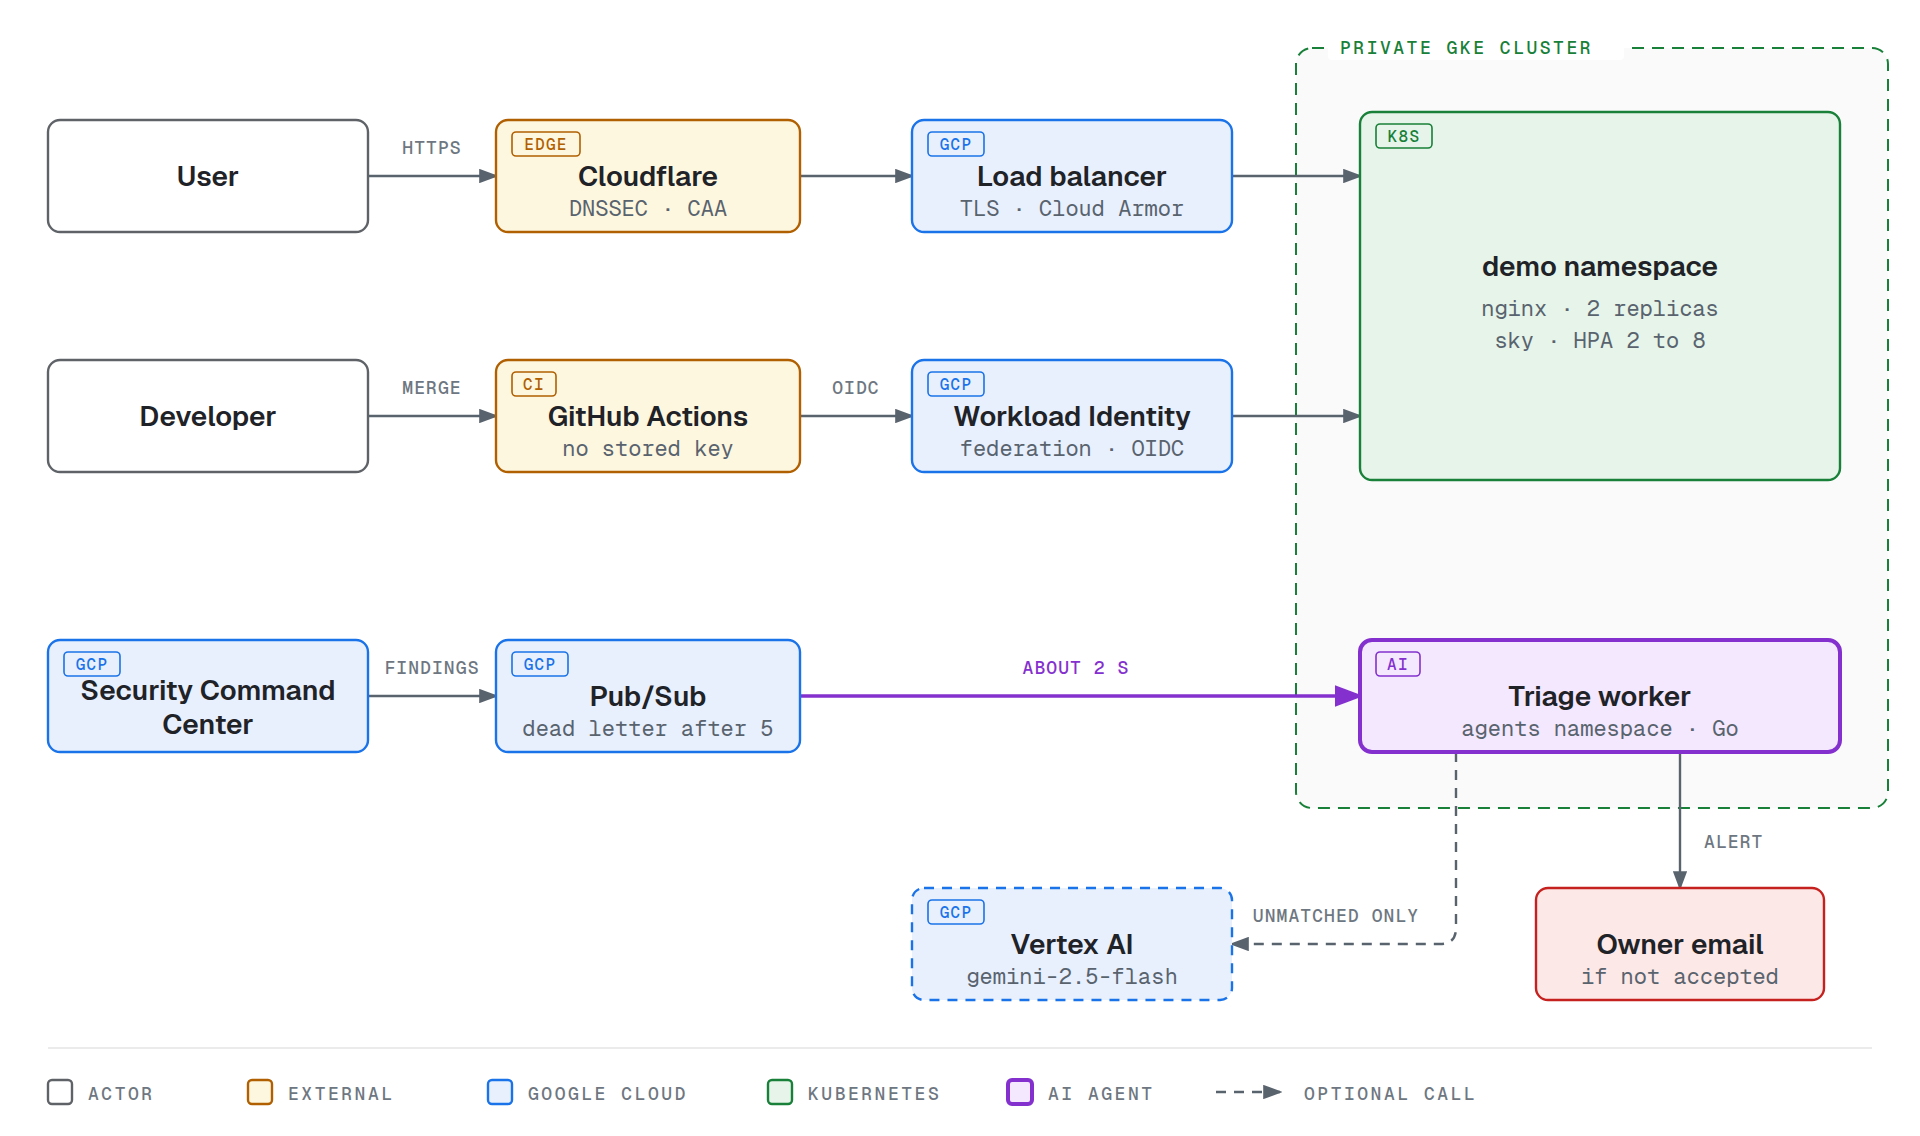
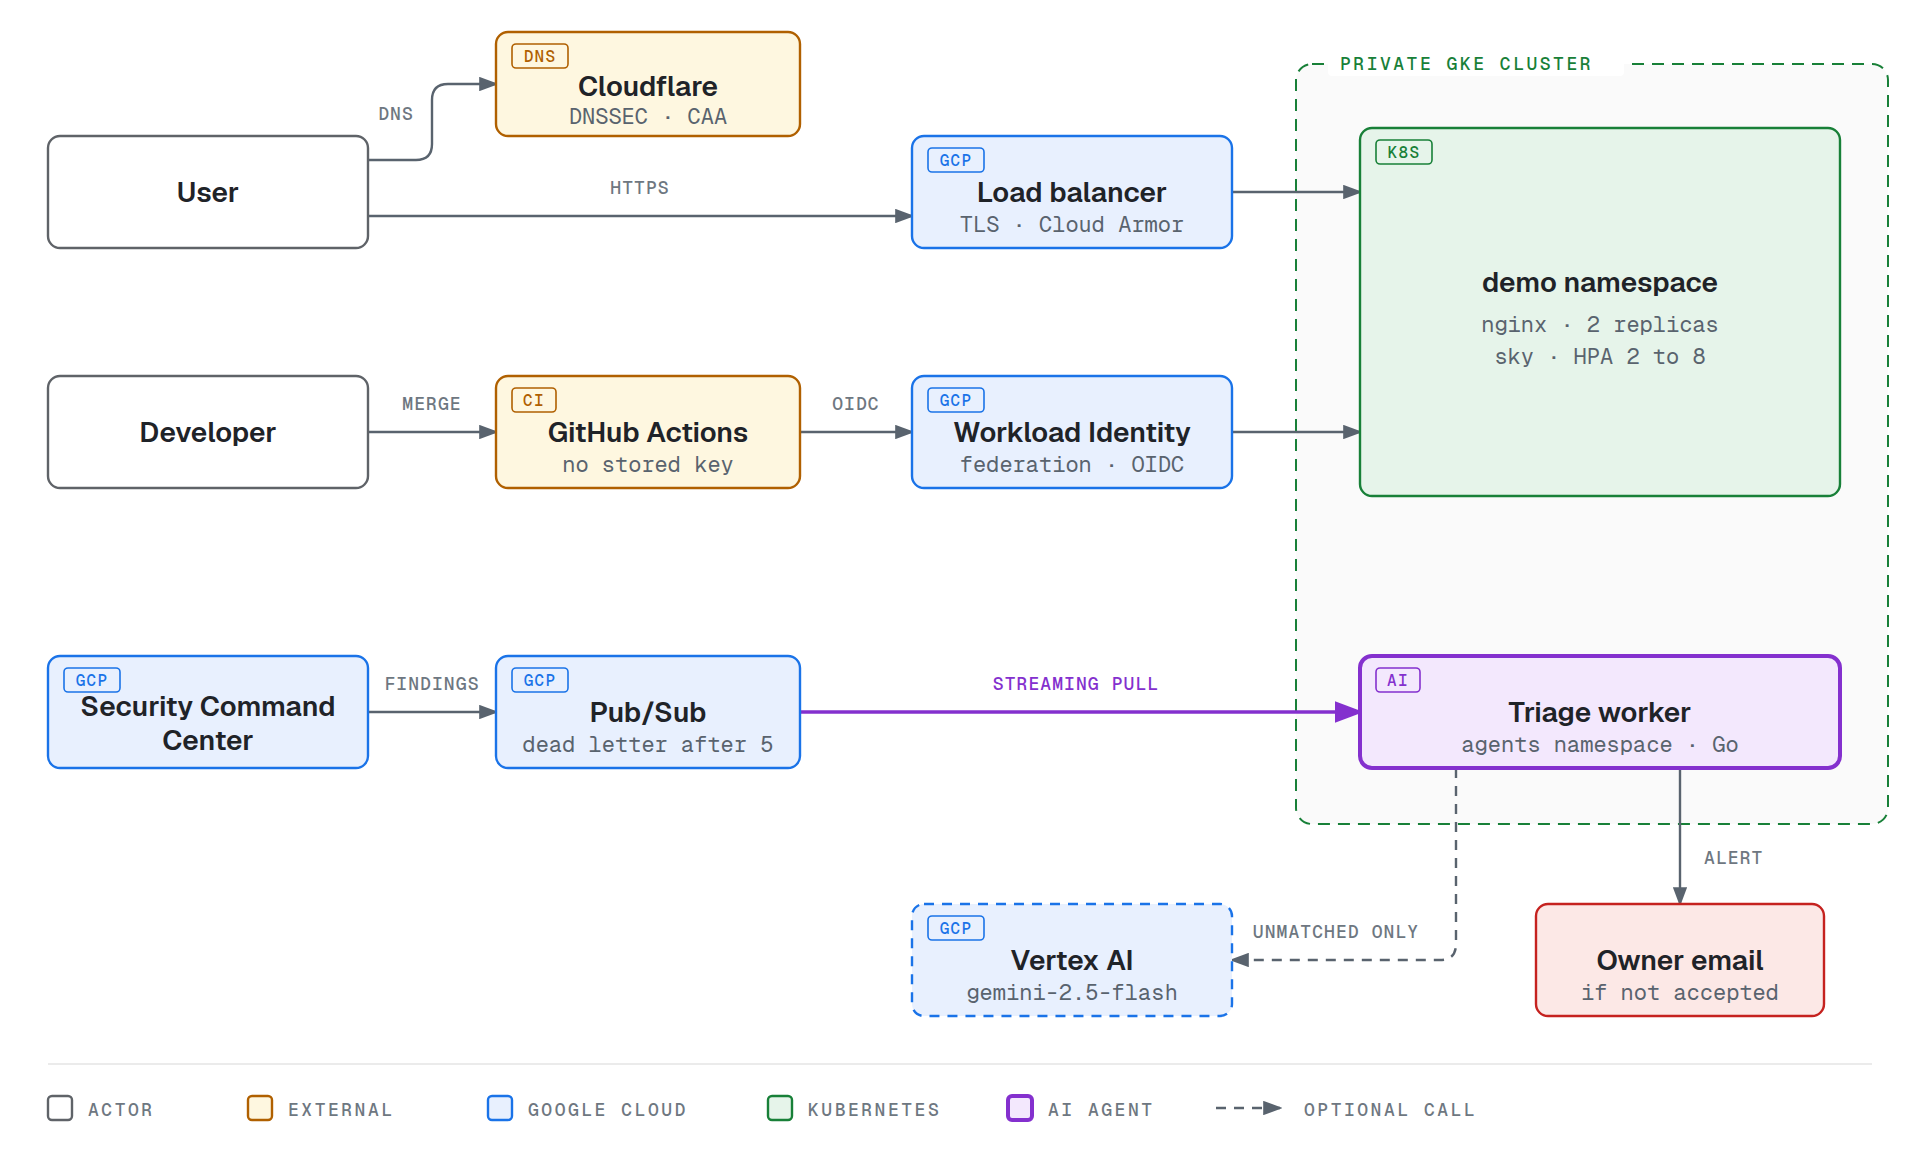
docs: correct the DNS path, the model path sum and the guardrail claims

diff --git a/scripts/diagrams/speed.html b/scripts/diagrams/speed.html
@@ -6,44 +6,46 @@
 <link rel="stylesheet" href="theme.css">
 </head>
 <body>
-<!-- Scale: x = 200 + seconds * 144. Sources are in worklog/phase-15-scc-triage.md, slices 4, 7, 8 and 14. -->
+<!-- Scale: x = 200 + seconds * 120. Sources are in worklog/phase-15-scc-triage.md, slices 7, 8 and 13. -->
 <svg viewBox="0 24 960 240" width="960" height="240" xmlns="http://www.w3.org/2000/svg" role="img" aria-labelledby="speed-title speed-desc">
   <title id="speed-title">Triage speed</title>
-  <desc id="speed-desc">The rules path took 2.9 seconds from finding change to recorded verdict, measured end to end; the model path adds a model call of 1.3 seconds at p50 and 1.9 seconds at p95, for about 3.6 seconds composed from measured parts.</desc>
+  <desc id="speed-desc">The rules path took 2.9 seconds from finding change to recorded verdict, measured end to end; adding the model call to the same measured parts gives about 4.4 seconds at p50 and 5.0 seconds at p95.</desc>
   <rect class="bg" y="24" width="960" height="240"/>
 
   <!-- Gridlines and axis -->
-  <line class="grid" x1="344" y1="40" x2="344" y2="156"/>
-  <line class="grid" x1="488" y1="40" x2="488" y2="156"/>
-  <line class="grid" x1="632" y1="40" x2="632" y2="156"/>
-  <line class="grid" x1="776" y1="40" x2="776" y2="156"/>
+  <line class="grid" x1="320" y1="40" x2="320" y2="156"/>
+  <line class="grid" x1="440" y1="40" x2="440" y2="156"/>
+  <line class="grid" x1="560" y1="40" x2="560" y2="156"/>
+  <line class="grid" x1="680" y1="40" x2="680" y2="156"/>
+  <line class="grid" x1="800" y1="40" x2="800" y2="156"/>
   <line class="grid" x1="920" y1="40" x2="920" y2="156"/>
   <line class="axis" x1="200" y1="40" x2="200" y2="156"/>
   <line class="axis" x1="200" y1="156" x2="920" y2="156"/>
   <text class="tick" x="200" y="172" text-anchor="middle">0 s</text>
-  <text class="tick" x="344" y="172" text-anchor="middle">1 s</text>
-  <text class="tick" x="488" y="172" text-anchor="middle">2 s</text>
-  <text class="tick" x="632" y="172" text-anchor="middle">3 s</text>
-  <text class="tick" x="776" y="172" text-anchor="middle">4 s</text>
-  <text class="tick" x="920" y="172" text-anchor="middle">5 s</text>
+  <text class="tick" x="320" y="172" text-anchor="middle">1 s</text>
+  <text class="tick" x="440" y="172" text-anchor="middle">2 s</text>
+  <text class="tick" x="560" y="172" text-anchor="middle">3 s</text>
+  <text class="tick" x="680" y="172" text-anchor="middle">4 s</text>
+  <text class="tick" x="800" y="172" text-anchor="middle">5 s</text>
+  <text class="tick" x="920" y="172" text-anchor="middle">6 s</text>
 
-  <!-- Rules path: delivery 2.80 s, three ledger states 0.13 s -->
+  <!-- Rules path, slice 8: finding change to received 2.80 s, three ledger states 0.13 s -->
   <text class="cat" x="188" y="70" text-anchor="end">Rules path</text>
   <text class="tick" x="188" y="85" text-anchor="end">measured end to end</text>
-  <rect class="bar gcp" x="200" y="56" width="403" height="28"/>
-  <rect class="bar k8s" x="603" y="56" width="19" height="28"/>
-  <text class="val ai start" x="634" y="75">2.9 s</text>
+  <rect class="bar gcp" x="200" y="56" width="336" height="28"/>
+  <rect class="bar k8s" x="536" y="56" width="15" height="28"/>
+  <text class="val ai start" x="564" y="75">2.9 s</text>
 
-  <!-- Model path: delivery about 2 s, model 1.3 s p50 (1.9 s p95), four ledger states 0.29 s -->
+  <!-- Model path: the same 2.80 s, model 1.3 s p50 and 1.9 s p95 (slice 13), four ledger states 0.285 s (slice 7) -->
   <text class="cat" x="188" y="126" text-anchor="end">Model path</text>
   <text class="tick" x="188" y="141" text-anchor="end">sum of measured parts</text>
-  <rect class="bar gcp" x="200" y="112" width="288" height="28"/>
-  <rect class="bar focal" x="488" y="112" width="187" height="28"/>
-  <rect class="bar k8s" x="675" y="112" width="41" height="28"/>
-  <line class="whisker" x1="716" y1="126" x2="803" y2="126"/>
-  <line class="whisker" x1="803" y1="118" x2="803" y2="134"/>
-  <text class="val ai start" x="815" y="123">3.6 s at p50</text>
-  <text class="val start" x="815" y="138">4.2 s at p95</text>
+  <rect class="bar gcp" x="200" y="112" width="336" height="28"/>
+  <rect class="bar focal" x="536" y="112" width="156" height="28"/>
+  <rect class="bar k8s" x="692" y="112" width="34" height="28"/>
+  <line class="whisker" x1="726" y1="126" x2="798" y2="126"/>
+  <line class="whisker" x1="798" y1="118" x2="798" y2="134"/>
+  <text class="val ai start" x="810" y="123">4.4 s at p50</text>
+  <text class="val start" x="810" y="138">5.0 s at p95</text>
 
   <!-- Note -->
   <text class="note" x="16" y="204">The owner email follows about 3 min later. That delay is the alert policy's detection floor, not the worker.</text>
@@ -51,14 +53,14 @@
   <!-- Legend -->
   <line class="rule" x1="16" y1="220" x2="944" y2="220"/>
   <rect class="bar gcp" x="16" y="234" width="12" height="12"/>
-  <text class="eyebrow" x="36" y="244">PUB/SUB DELIVERY</text>
-  <rect class="bar focal" x="196" y="234" width="12" height="12"/>
-  <text class="eyebrow" x="216" y="244">MODEL CALL</text>
-  <rect class="bar k8s" x="336" y="234" width="12" height="12"/>
-  <text class="eyebrow" x="356" y="244">SETTLE AND WRITE LEDGER</text>
-  <line class="whisker" x1="580" y1="240" x2="612" y2="240"/>
-  <line class="whisker" x1="612" y1="234" x2="612" y2="246"/>
-  <text class="eyebrow" x="624" y="244">MODEL P95</text>
+  <text class="eyebrow" x="36" y="244">FINDING CHANGE TO WORKER</text>
+  <rect class="bar focal" x="256" y="234" width="12" height="12"/>
+  <text class="eyebrow" x="276" y="244">MODEL CALL</text>
+  <rect class="bar k8s" x="396" y="234" width="12" height="12"/>
+  <text class="eyebrow" x="416" y="244">SETTLE AND WRITE LEDGER</text>
+  <line class="whisker" x1="640" y1="240" x2="672" y2="240"/>
+  <line class="whisker" x1="672" y1="234" x2="672" y2="246"/>
+  <text class="eyebrow" x="684" y="244">MODEL P95</text>
 </svg>
 </body>
 </html>

diff --git a/scripts/diagrams/overview.html b/scripts/diagrams/overview.html
@@ -6,14 +6,14 @@
 <link rel="stylesheet" href="theme.css">
 </head>
 <body>
-<svg viewBox="0 32 960 568" width="960" height="568" xmlns="http://www.w3.org/2000/svg" role="img" aria-labelledby="overview-title overview-desc">
+<svg viewBox="0 24 960 576" width="960" height="576" xmlns="http://www.w3.org/2000/svg" role="img" aria-labelledby="overview-title overview-desc">
   <title id="overview-title">Platform overview</title>
-  <desc id="overview-desc">Users reach the demo namespace through Cloudflare and a Google load balancer, a developer deploys to it through GitHub Actions and Workload Identity Federation, and Security Command Center findings reach the triage worker in the agents namespace, which calls Vertex AI for unmatched findings and alerts the owner.</desc>
+  <desc id="overview-desc">Users resolve the domain at Cloudflare and reach the demo namespace through a Google load balancer, a developer deploys to it through GitHub Actions and Workload Identity Federation, and Security Command Center findings reach the triage worker in the agents namespace, which calls Vertex AI for unmatched findings and alerts the owner.</desc>
   <defs>
     <marker id="arrow" markerWidth="8" markerHeight="6" refX="7" refY="3" orient="auto"><polygon class="mk" points="0 0, 8 3, 0 6"/></marker>
     <marker id="arrow-ai" markerWidth="8" markerHeight="6" refX="7" refY="3" orient="auto"><polygon class="mk ai" points="0 0, 8 3, 0 6"/></marker>
   </defs>
-  <rect class="bg" y="32" width="960" height="568"/>
+  <rect class="bg" y="24" width="960" height="576"/>
 
   <!-- Zone -->
   <rect class="zone" x="648" y="56" width="296" height="380" rx="8"/>
@@ -21,8 +21,8 @@
   <text class="zonet" x="670" y="59">PRIVATE GKE CLUSTER</text>
 
   <!-- Arrows: serving -->
-  <line class="a" x1="184" y1="120" x2="248" y2="120"/>
-  <line class="a" x1="400" y1="120" x2="456" y2="120"/>
+  <path class="a" d="M 184,104 H 208 Q 216,104 216,96 V 74 Q 216,66 224,66 H 248"/>
+  <line class="a" x1="184" y1="132" x2="456" y2="132"/>
   <line class="a" x1="616" y1="120" x2="680" y2="120"/>
   <!-- Arrows: delivery -->
   <line class="a" x1="184" y1="240" x2="248" y2="240"/>
@@ -35,16 +35,18 @@
   <line class="a" x1="840" y1="408" x2="840" y2="476"/>
 
   <!-- Arrow labels -->
-  <rect class="mask" x="197" y="99" width="38" height="13" rx="2"/>
-  <text class="lbl" x="216" y="109">HTTPS</text>
+  <rect class="mask" x="186" y="74" width="24" height="13" rx="2"/>
+  <text class="lbl" x="198" y="84">DNS</text>
+  <rect class="mask" x="301" y="111" width="38" height="13" rx="2"/>
+  <text class="lbl" x="320" y="121">HTTPS</text>
   <rect class="mask" x="197" y="219" width="38" height="13" rx="2"/>
   <text class="lbl" x="216" y="229">MERGE</text>
   <rect class="mask" x="412" y="219" width="32" height="13" rx="2"/>
   <text class="lbl" x="428" y="229">OIDC</text>
   <rect class="mask" x="190" y="359" width="52" height="13" rx="2"/>
   <text class="lbl" x="216" y="369">FINDINGS</text>
-  <rect class="mask" x="508" y="359" width="60" height="13" rx="2"/>
-  <text class="lbl ai" x="538" y="369">ABOUT 2 S</text>
+  <rect class="mask" x="494" y="359" width="88" height="13" rx="2"/>
+  <text class="lbl ai" x="538" y="369">STREAMING PULL</text>
   <rect class="mask" x="624" y="483" width="88" height="13" rx="2"/>
   <text class="lbl" x="668" y="493">UNMATCHED ONLY</text>
   <rect class="mask" x="848" y="446" width="40" height="13" rx="2"/>
@@ -55,12 +57,12 @@
   <rect class="n actor" x="24" y="92" width="160" height="56" rx="6"/>
   <text class="name" x="104" y="125">User</text>
 
-  <rect class="mask" x="248" y="92" width="152" height="56" rx="6"/>
-  <rect class="n ext" x="248" y="92" width="152" height="56" rx="6"/>
-  <rect class="tag ext" x="256" y="98" width="34" height="12" rx="2"/>
-  <text class="tagt ext" x="273" y="107">EDGE</text>
-  <text class="name" x="324" y="125">Cloudflare</text>
-  <text class="sub" x="324" y="140">DNSSEC · CAA</text>
+  <rect class="mask" x="248" y="40" width="152" height="52" rx="6"/>
+  <rect class="n ext" x="248" y="40" width="152" height="52" rx="6"/>
+  <rect class="tag ext" x="256" y="46" width="28" height="12" rx="2"/>
+  <text class="tagt ext" x="270" y="55">DNS</text>
+  <text class="name" x="324" y="72">Cloudflare</text>
+  <text class="sub" x="324" y="86">DNSSEC · CAA</text>
 
   <rect class="mask" x="456" y="92" width="160" height="56" rx="6"/>
   <rect class="n gcp" x="456" y="92" width="160" height="56" rx="6"/>

diff --git a/README.md b/README.md
@@ -1,6 +1,6 @@
 # Secure Kubernetes Platform on GKE, with an AI Triage Agent
 
-A private GKE cluster, keyless delivery, and an AI agent that turns each security finding into a recorded verdict in seconds. Terraform builds it and GitHub Actions deploys to it with no stored key.
+A private GKE cluster, keyless delivery, and an AI agent that turns each misconfiguration, threat and exposure finding into a recorded verdict in seconds. Terraform builds it and GitHub Actions deploys to it with no stored key.
 
 > [!NOTE]
 > **Closed on 2026-09-22. Shut down on 2026-09-25.** The infrastructure and the `sindrg.com` DNS records are deleted. The code is kept as it ran. See [the shutdown worklog](worklog/shutdown.md).
@@ -14,7 +14,7 @@ A private GKE cluster, keyless delivery, and an AI agent that turns each securit
 | Delivery | GitHub Actions, Workload Identity Federation, Artifact Registry, deploys by digest |
 | Workload security | Pod Security `restricted`, default-deny NetworkPolicies, Checkov, kube-linter, Dependabot |
 | AI agent | Security Command Center, Pub/Sub, Vertex AI `gemini-2.5-flash`, a Go worker |
-| Evidence | Cloud Monitoring, k6 load tests, failure drills, a worklog per phase |
+| Evidence | Cloud Monitoring, k6 load tests, failure drills, worklogs with the command behind each number |
 
 | Merge to Ready | Peak load, no failures | Finding to verdict | False contradictions | Threat model |
 | --- | --- | --- | --- | --- |
@@ -29,21 +29,21 @@ Sources are in [Measured](#measured) and the [threat model](reference/threat-mod
 | 2 min | This page, down to [the AI triage agent](#ai-triage-agent) |
 | 15 min | [The triage worker](reference/triage-worker.md), then the [model scope](decisions.md#model-scope) and [triage idempotency](decisions.md#triage-idempotency) decisions |
 | Platform | [Networking](reference/networking.md), [IAM and federation](reference/iam-and-federation.md), [threat model](reference/threat-model.md) |
-| Proof | [The worklogs](worklog/README.md), one per phase, each with the commands and their output |
+| Proof | [The worklogs](worklog/README.md), with the commands and their output |
 | Failures | [Troubleshooting](troubleshooting.md#symptoms), indexed by symptom |
 
 ## Architecture
 
 <picture>
   <source media="(prefers-color-scheme: dark)" srcset="images/diagrams/overview-dark.png">
-  <img alt="Users reach the demo namespace through Cloudflare and a Google load balancer. A developer deploys through GitHub Actions and Workload Identity Federation. Security Command Center findings reach the triage worker through Pub/Sub, which calls Vertex AI for unmatched findings and alerts the owner." src="images/diagrams/overview-light.png">
+  <img alt="Users resolve the domain at Cloudflare and reach the demo namespace through a Google load balancer. A developer deploys through GitHub Actions and Workload Identity Federation. Security Command Center findings reach the triage worker through Pub/Sub, which calls Vertex AI for unmatched findings and alerts the owner." src="images/diagrams/overview-light.png">
 </picture>
 
 Terraform builds everything in Google Cloud: a custom VPC, private nodes across three zones, Cloud NAT, and a control plane reachable only by DNS. [Serving and delivery](#platform) are drawn in more detail below.
 
 ## AI triage agent
 
-Security Command Center publishes each finding change to Pub/Sub. A worker in the `agents` namespace settles the finding with a reviewed mapping first, and asks Vertex AI only when no mapping matches. It writes every verdict to an append-only ledger before it notifies anyone.
+Security Command Center publishes each finding change to Pub/Sub. A worker in the `agents` namespace counts vulnerability findings and does not triage them, because a vulnerability is fixed by an image pin, not by a decision. It settles every other finding with a reviewed mapping first, and asks Vertex AI only when no mapping matches and the finding is complete. It writes every verdict to an append-only ledger before it notifies anyone.
 
 <picture>
   <source media="(prefers-color-scheme: dark)" srcset="images/diagrams/triage-dark.png">
@@ -54,10 +54,10 @@ Security Command Center publishes each finding change to Pub/Sub. A worker in th
 
 <picture>
   <source media="(prefers-color-scheme: dark)" srcset="images/diagrams/speed-dark.png">
-  <img alt="Rules path, measured end to end: 2.9 seconds, almost all of it Pub/Sub delivery. Model path, summed from measured parts: about 3.6 seconds at p50 and 4.2 seconds at p95." src="images/diagrams/speed-light.png">
+  <img alt="Rules path, measured end to end: 2.9 seconds, almost all of it getting the finding to the worker. Model path, summed from measured parts: about 4.4 seconds at p50 and 5.0 seconds at p95." src="images/diagrams/speed-light.png">
 </picture>
 
-A finding change became a recorded verdict in 2.9 s, measured end to end on the rules path in [slice 8](worklog/phase-15-scc-triage.md#recovery). Pub/Sub delivery is most of it. The model path is summed from its measured parts and was not timed end to end: the model call takes 1.3 s at p50 and 1.9 s at p95, from [slice 13](worklog/phase-15-scc-triage.md#latency-and-cost).
+A finding change became a recorded verdict in 2.9 s, measured end to end on the rules path in [slice 8](worklog/phase-15-scc-triage.md#recovery). Getting the finding to the worker is most of it. The model path was not timed end to end. It is that measured path plus the model call, 1.3 s at p50 and 1.9 s at p95 from [slice 13](worklog/phase-15-scc-triage.md#latency-and-cost), plus the 285 ms a notifying verdict took to write in [slice 7](worklog/phase-15-scc-triage.md#kill-after-inference-before-persistence).
 
 ### Results
 
@@ -75,8 +75,8 @@ The model beats the rules alone only after a contradiction has to land on a cont
 | Cannot accept a finding | `accepted` is absent from the schema, refused by the worker, and rejected by the validator |
 | Cannot act | No tools are declared, and a tool call in the reply is rejected |
 | Cannot overspend | 1.00 USD a UTC day. Each call reserves its worst case in the ledger first, so the ceiling survives restarts |
-| Cannot lose a finding | Record, then notify, then acknowledge. A crash at each boundary was [drilled](worklog/phase-15-scc-triage.md#slice-7-the-crash-boundaries-drilled) |
-| Cannot be steered by a finding | An instruction inside a finding gave [the same verdict](worklog/phase-15-scc-triage.md#the-injection) as without it |
+| Cannot lose a finding to a crash | Record, then notify, then acknowledge. A crash at each boundary was [drilled](worklog/phase-15-scc-triage.md#slice-7-the-crash-boundaries-drilled). A message that fails five deliveries is parked on the dead letter topic with its body intact, and an alert fires |
+| Was not steered by an injected instruction | An instruction in the fields a resource's creator controls gave [the same verdict](worklog/phase-15-scc-triage.md#the-injection) as without it. The detector-written fields are covered by unit tests only |
 
 The worker holds no Security Command Center permission and no cluster credential. Its code lives in [ai-k8s](https://github.com/sindredg/ai-k8s). How it works is in [the triage worker reference](reference/triage-worker.md).
 
@@ -97,7 +97,8 @@ flowchart LR
         sky["sky<br/>2 to 8 replicas, HPA"]
     end
 
-    user -- "HTTPS" --> dns --> lb
+    user -. "DNS lookup" .-> dns
+    user -- "HTTPS" --> lb
     lb -- "/" --> nginx
     lb -- "/sky, /api, /static" --> sky
     gw -. "configures" .-> lb
